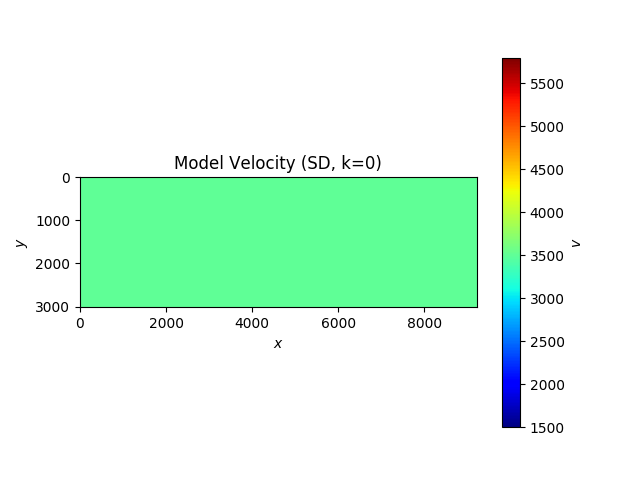
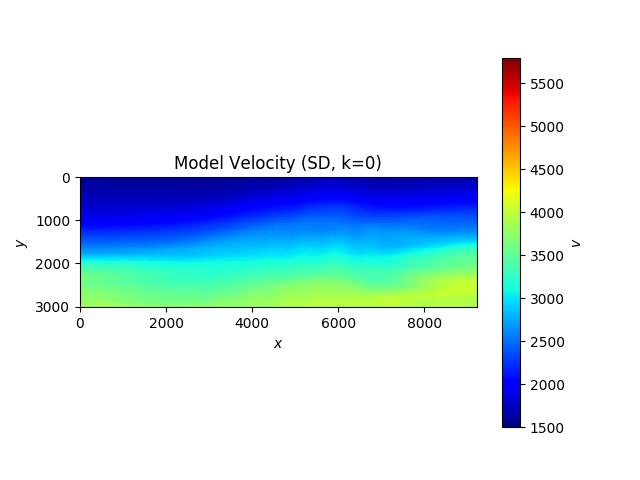
backup hw5

Changed region(s): [[0.125, 0.3438, 0.75, 0.6562]]

diff --git a/HW05/pb3/regularization.py b/HW05/pb3/regularization.py
@@ -1,0 +1,62 @@
+import numpy as np
+import platform
+if platform.system() == "Darwin":
+    import matplotlib
+    matplotlib.use('TkAgg')
+import matplotlib.pyplot as plt
+from scipy.ndimage import gaussian_filter, uniform_filter
+
+import utility, settings
+
+ALPHAS = np.logspace(-3, 3, num=50, base=10)
+
+def main():
+    v_real = utility.readraw(filename=settings.FILENAME)
+    s_real = 1.0/v_real
+    L = utility.get_l(s_real, recalculate=False)
+    t_obs = np.matmul(L, s_real)
+
+    s_real_padded = np.pad(s_real.reshape(settings.NX, settings.NY).T, (100,100), 'edge')
+    s_model = uniform_filter(s_real_padded, size=60)[100:-100, 100:-100].reshape(settings.NX*settings.NY)
+
+    v_model = np.divide(1.0, s_model)
+    plt.imshow(
+        v_model.reshape(settings.NY, settings.NX), cmap='jet',
+        extent=[0, settings.DX*settings.NX, settings.DX*settings.NY, 0],
+        vmin=settings.COLOR_VMIN, vmax=settings.COLOR_VMAX,
+    )
+    a = plt.colorbar()
+    a.set_label('$v$')
+    plt.title("Initial Model Velocity")
+    plt.xlabel("$x$")
+    plt.ylabel("$y$")
+    plt.show()
+    plt.clf()
+
+    L = L.astype(np.float16)
+    t_obs = t_obs.astype(np.float16)
+
+    for alpha in ALPHAS:
+        print(alpha)
+        inn = np.linalg.inv(np.add(
+            np.matmul(L.T, L),
+            np.multiply(alpha, np.identity(s_model.shape, dtype=np.float16))
+        ))
+        s_model = np.matmul(
+            inn,
+            np.matmul(L.T, t_obs)
+        )
+
+        v_model = np.divide(1.0, s_model)
+        plt.imshow(
+            v_model.reshape(settings.NY, settings.NX), cmap='jet',
+            extent=[0, settings.DX*settings.NX, settings.DX*settings.NY, 0],
+            vmin=settings.COLOR_VMIN, vmax=settings.COLOR_VMAX,
+        )
+        a = plt.colorbar()
+        a.set_label('$v$')
+        plt.title("Model Velocity (REG, alpha={})".format(alpha))
+        plt.xlabel("$x$")
+        plt.ylabel("$y$")
+        plt.show()
+        plt.clf()

diff --git a/HW05/pb1/sd.py b/HW05/pb1/sd.py
@@ -4,11 +4,11 @@ if platform.system() == "Darwin":
     import matplotlib
     matplotlib.use('TkAgg')
 import matplotlib.pyplot as plt
-from scipy.ndimage import gaussian_filter
+from scipy.ndimage import gaussian_filter, uniform_filter
 
 import utility, settings
 
-K_STOP = 10
+K_STOP = 30
 LOG_RES = []
 
 def main():
@@ -18,8 +18,13 @@ def main():
     t_obs = np.matmul(L, s_real)
 
     # s_model = np.multiply(1.0/3.5e3, np.ones(shape=s_real.shape))
-    s_real_padded = np.pad(s_real.reshape(settings.NX, settings.NY).T, (5,5), 'maximum')
-    s_model = gaussian_filter(s_real_padded, sigma=5)[5:-5, 5:-5].reshape(settings.NX*settings.NY)
+
+    # s_real_padded = np.pad(s_real.reshape(settings.NX, settings.NY).T, (50,50), 'maximum')
+    # s_model = gaussian_filter(s_real_padded, sigma=50)[50:-50, 50:-50].reshape(settings.NX*settings.NY)
+
+    s_real_padded = np.pad(s_real.reshape(settings.NX, settings.NY).T, (100,100), 'edge')
+    s_model = uniform_filter(s_real_padded, size=60)[100:-100, 100:-100].reshape(settings.NX*settings.NY)
+
     k = 0
     res = utility.get_r(t_obs, s_model, L)
     LOG_RES.append(res)
@@ -40,15 +45,16 @@ def main():
     
     try:
         while k < K_STOP and res > 1e-2:
-            pk = -1.0 * utility.grad(t_obs, s_model, L)
+            pk = -1.0*utility.grad(t_obs, s_model, L)
             alphak = utility.get_proper_alpha(t_obs, s_model, L, pk)
+            print(alphak, min(pk), max(pk))
             s_model = np.add(
                 s_model,
                 np.multiply(alphak, pk)
             )
             res = utility.get_r(t_obs, s_model, L)
             LOG_RES.append(res)
-            print(k, res)
+            print(k, res, min(s_model), max(s_model))
             k += 1
     except KeyboardInterrupt:
         pass

diff --git a/HW05/utility.py b/HW05/utility.py
@@ -122,15 +122,16 @@ Optimization
 '''
 def get_r(t_obs, s_model, L):
     return np.square(np.linalg.norm(np.subtract(
-        t_obs,
-        np.matmul(L, s_model)
+        np.matmul(L, s_model),
+        t_obs
     )))
 
-def grad(t_obs, s_model, L):
-    return np.negative(np.matmul(
-        np.subtract(t_obs, np.matmul(L, s_model)).T,
-        L
-    ))
+def grad(t_obs, s_model, L, norm=True):
+    _grad = np.matmul(
+        np.subtract(np.matmul(L, s_model), t_obs).T,
+        L,
+    )
+    return np.divide(_grad, np.linalg.norm(_grad)) if norm else _grad
 
 '''
 line search

diff --git a/HW05/main.py b/HW05/main.py
@@ -1,5 +1,6 @@
 from unit_test import eikonal, ray_path
 from pb1 import sd
+from pb3 import regularization
 
 if __name__ == "__main__":
-    sd.main()
+    regularization.main()
